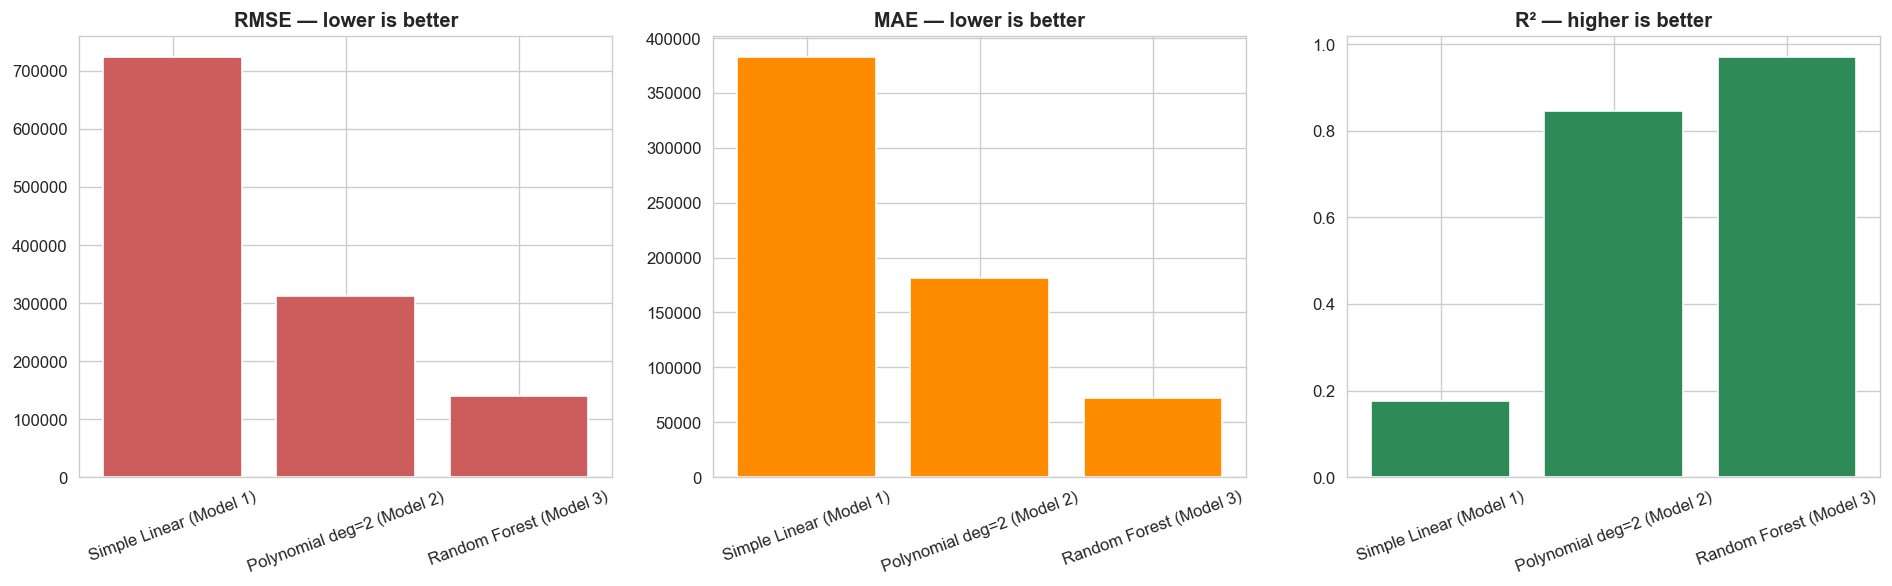
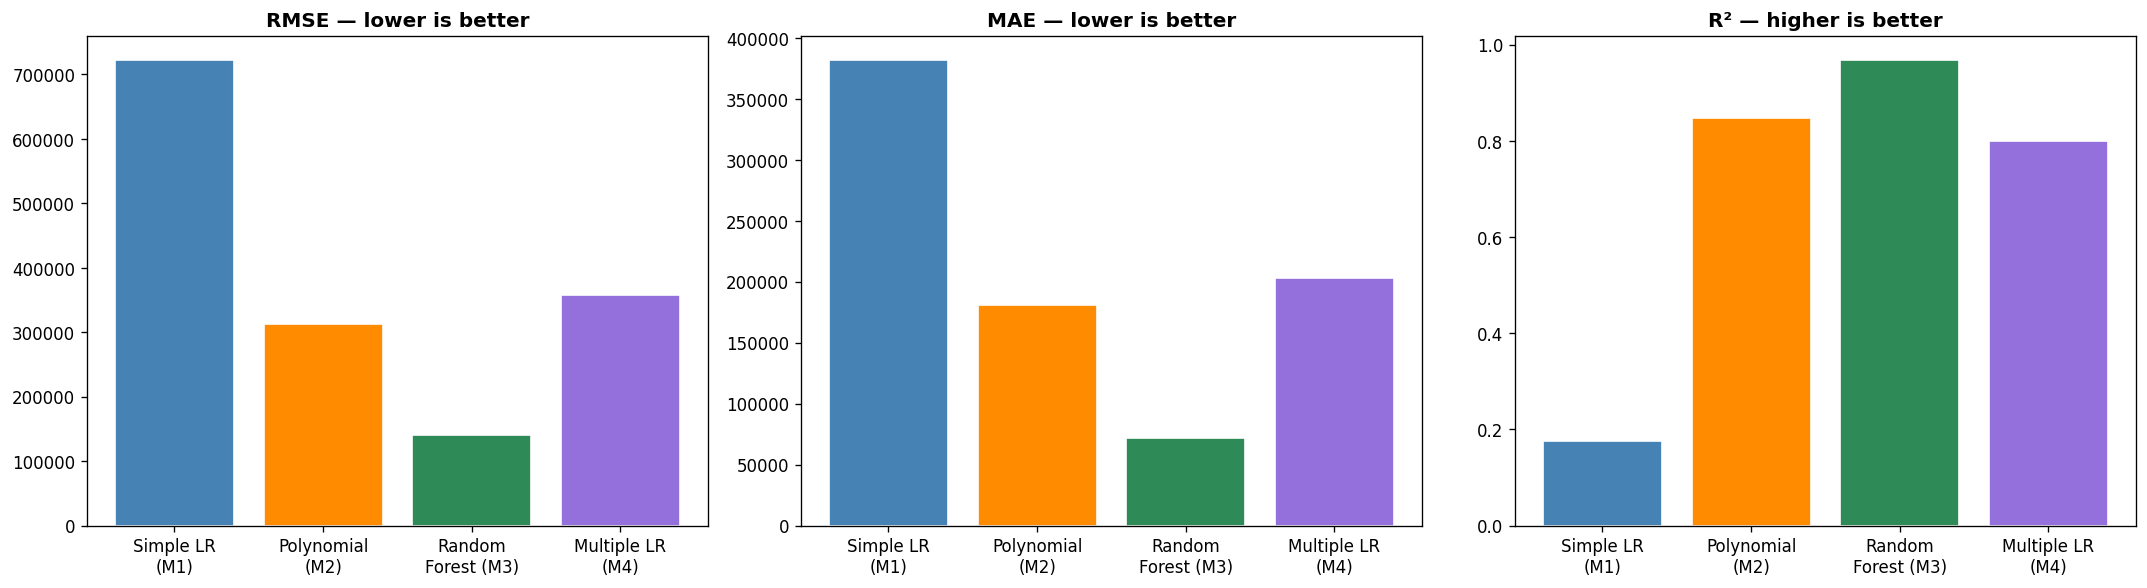
Add Model 4: Multiple Linear Regression and update comparison
- Added Model 4 (Multiple Linear Regression) to notebook as section 10.5
  using all numeric + categorical features with StandardScaler + OneHotEncoder
- Updated model comparison table, bar chart, and conclusion to cover all 4 models
- Key finding documented: Polynomial (R2=0.85) beats Multiple LR (R2=0.80)
  showing non-linearity matters more than feature richness
- Updated app.py Model Comparison tab to show 4-model table, new bar chart,
  Model 4 predicted vs actual plot, and ranked summary with explanation
- Regenerated fig_model_comparison.png with 4-bar chart
- Added fig_model4_mlr_pred_vs_actual.png

Final ranking: Simple LR (0.18) < Multiple LR (0.80) < Polynomial (0.85) < Random Forest (0.97)

diff --git a/app.py b/app.py
@@ -249,24 +249,37 @@ with tabs[1]:
 with tabs[2]:
     st.markdown("## Model Comparison")
     st.markdown(
-        "*This section evaluates all three regression models on the held-out test set. Metrics are computed once during training "
+        "*This section evaluates all four regression models on the held-out test set. Metrics are computed once during training "
         "and do not change with prediction inputs.*"
     )
-    st.markdown("Comparison of three regression models trained on the cleaned dataset")
+    st.markdown("Comparison of four regression models trained on the cleaned dataset")
 
     comparison_df = pd.read_csv('model_comparison.csv')
     st.table(comparison_df)
 
-    st.image('fig_model_comparison.png', caption='Side-by-side performance of all three models', width='stretch')
+    st.image('fig_model_comparison.png', caption='Side-by-side performance of all four models', width='stretch')
+
+    st.markdown("### Model details")
     st.image('fig_model1_linear.png', caption='Model 1: Simple Linear Regression — straight-line fit underfits the curved depreciation', width='stretch')
     st.image('fig_model2_polynomial.png', caption='Model 2: Polynomial Regression (degree 2) — captures curvature but ignores categorical features', width='stretch')
     st.image('fig_model3_feature_importance.png', caption='Model 3: Random Forest feature importance — engine power, age, and manufacturer dominate', width='stretch')
-    st.image('fig_model3_pred_vs_actual.png', caption='Random Forest predicted vs actual prices — tight clustering along the diagonal', width='stretch')
+    st.image('fig_model3_pred_vs_actual.png', caption='Model 3: Random Forest predicted vs actual — tight clustering along the diagonal', width='stretch')
+    st.image('fig_model4_mlr_pred_vs_actual.png', caption='Model 4: Multiple Linear Regression predicted vs actual — wider scatter shows linear limits', width='stretch')
 
+    st.markdown("### Key finding: non-linearity matters more than feature richness")
     st.markdown(
-        "Random Forest is the best model for this problem because it natively handles categorical features (manufacturer, fuel, ownership), "
-        "captures non-linear interactions, and is robust to outliers. The Simple Linear baseline fails due to fundamental shape mismatch "
-        "with the curved depreciation pattern. Polynomial regression captures the curvature but cannot represent the categorical structure of the data."
+        """
+        | Rank | Model | R² | What it tells us |
+        |---|---|---|---|
+        | 4th | Model 1: Simple LR | 0.1753 | One feature (`age`) is not enough |
+        | 3rd | Model 4: Multiple LR | 0.7987 | All features, but linear only |
+        | 2nd | Model 2: Polynomial | 0.8465 | 4 numeric features with curvature — **beats full-feature linear** |
+        | **1st** | **Model 3: Random Forest** | **0.9690** | Full features + non-linearity + interactions |
+
+        Model 4 (Multiple LR) uses the **same features** as Random Forest but stays linear — it scores 0.80.
+        Model 2 (Polynomial) uses only 4 numeric features but adds non-linear terms — it scores 0.85.
+        **Non-linearity is more valuable than more features.** Random Forest gets both, which is why it wins decisively.
+        """
     )
 
 st.markdown("---")
